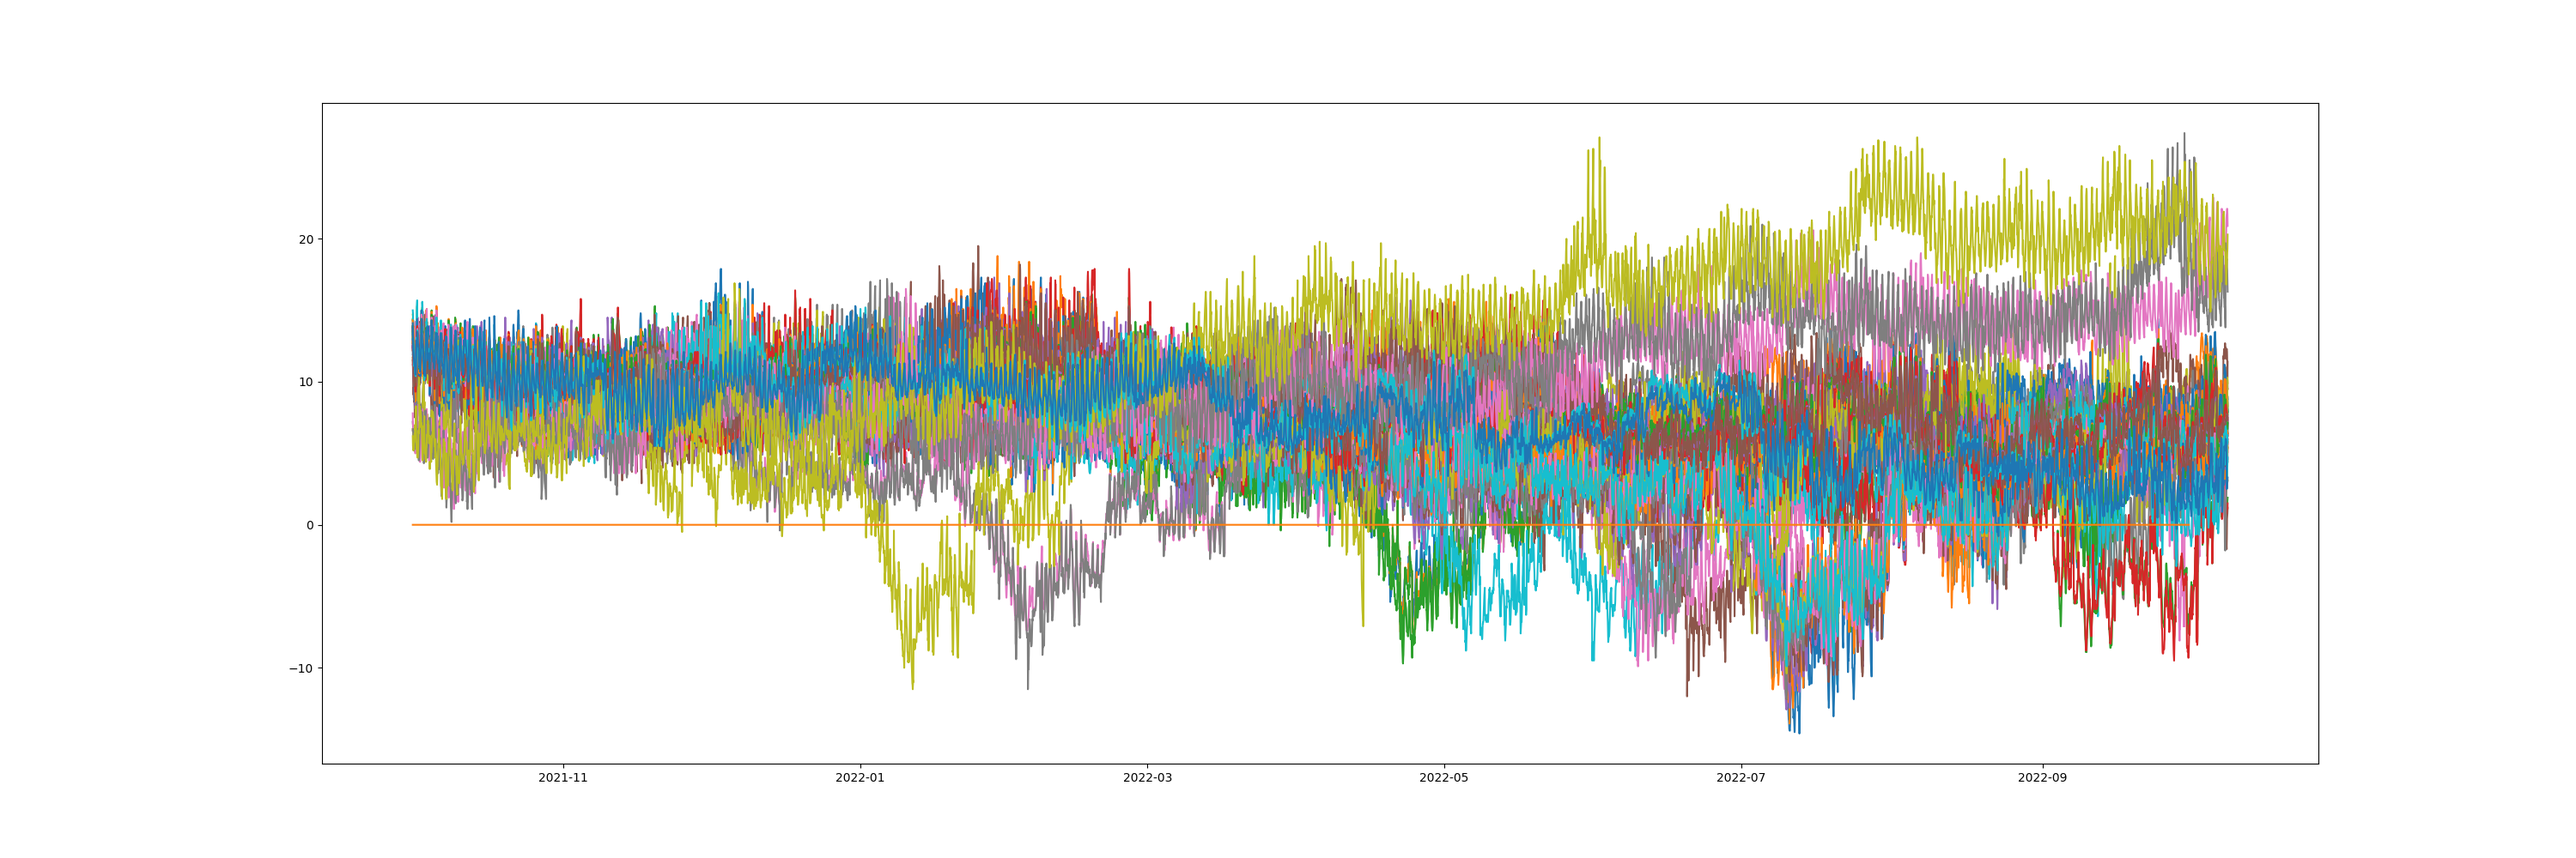
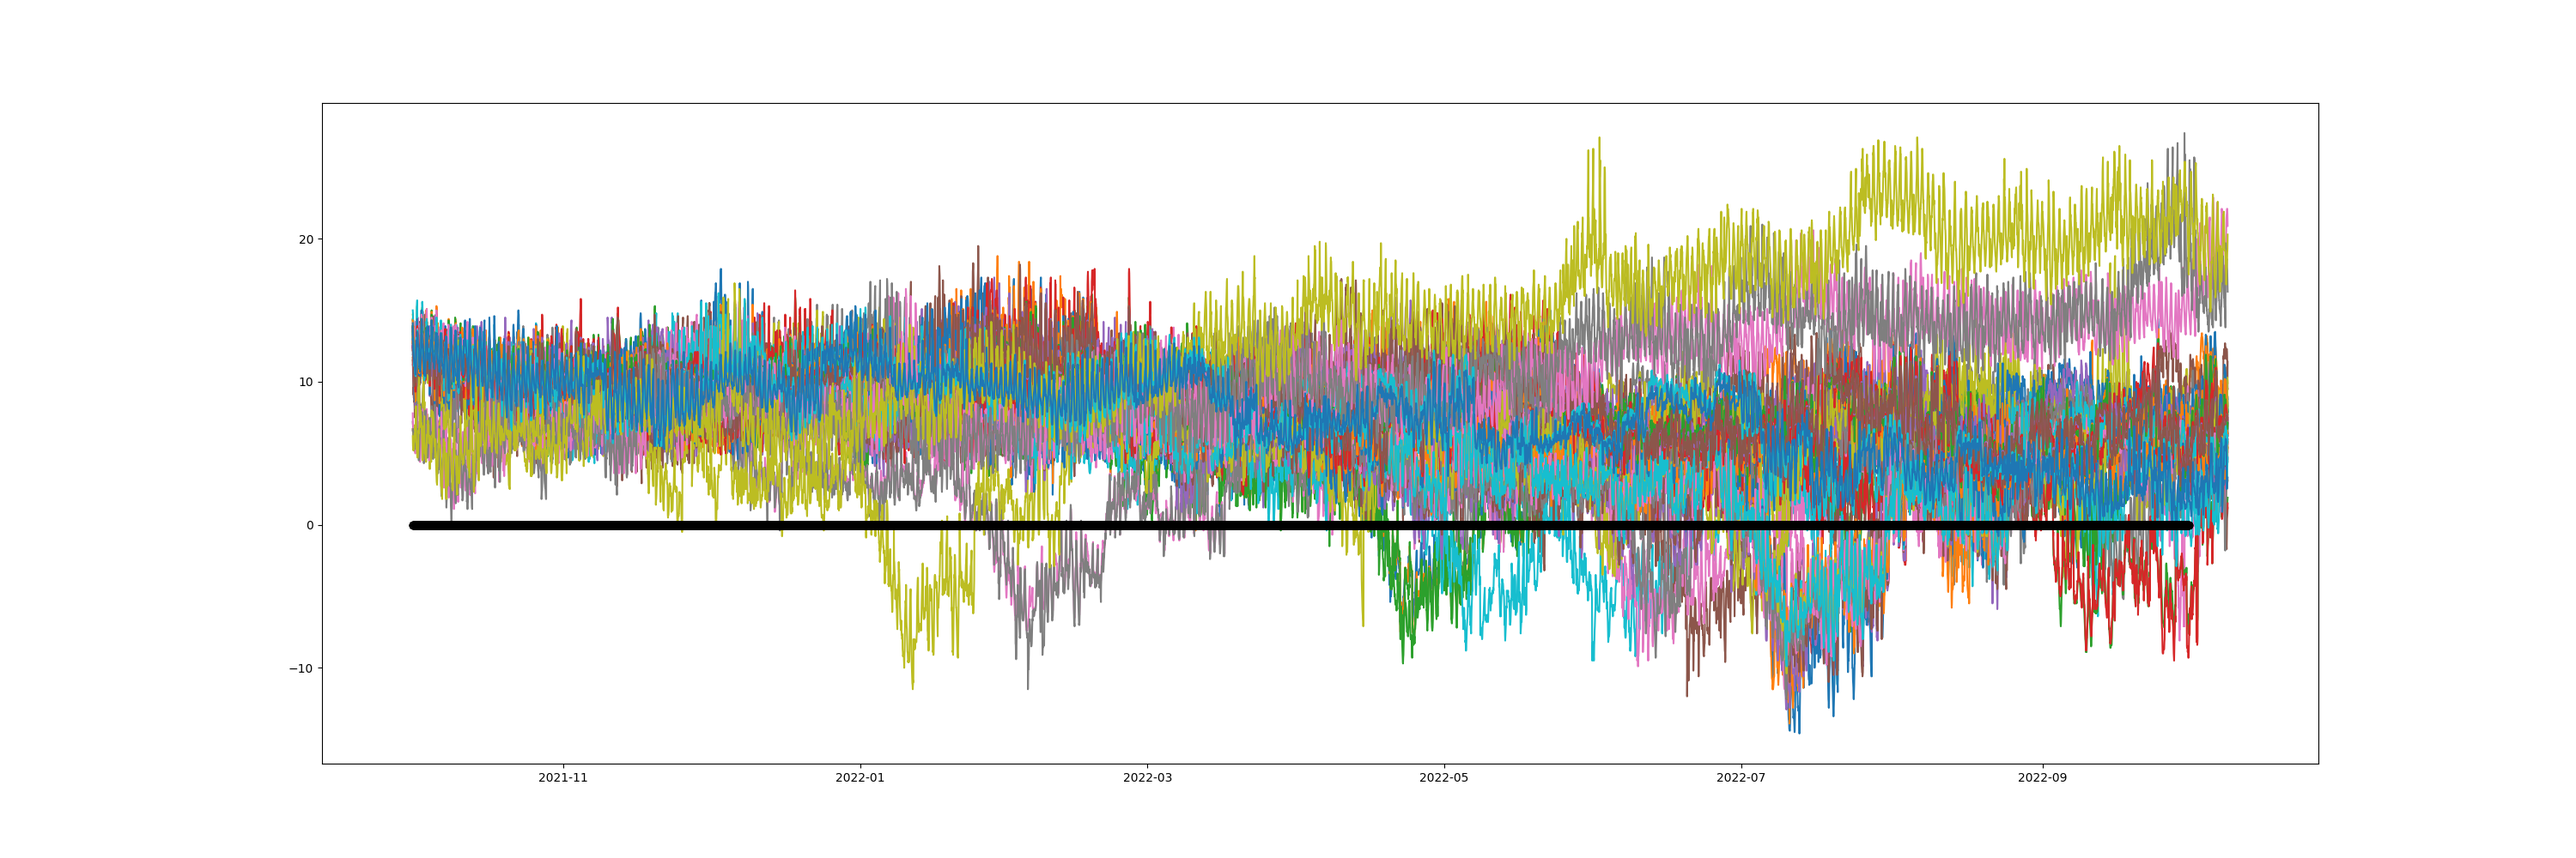
analyzing img

Changed region(s): [[0.155, 0.589, 0.868, 0.62]]

diff --git a/weights/ensemble/mk_weighted_ensemble.py b/weights/ensemble/mk_weighted_ensemble.py
@@ -279,7 +279,7 @@ def main(args):
         
         plt.figure(figsize=(30,10))
         plt.plot(fcst_all)
-        plt.plot(ENS_W)
+        plt.plot(ENS_W, 'ko')
         plt.savefig('all_fcst_'+input_variable)
         
         elapsed = time.time() - t #closes log file
